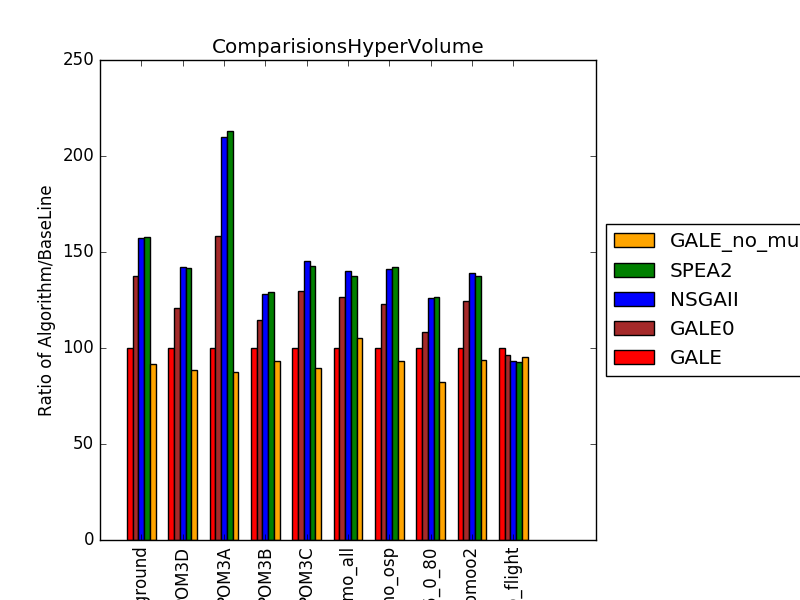
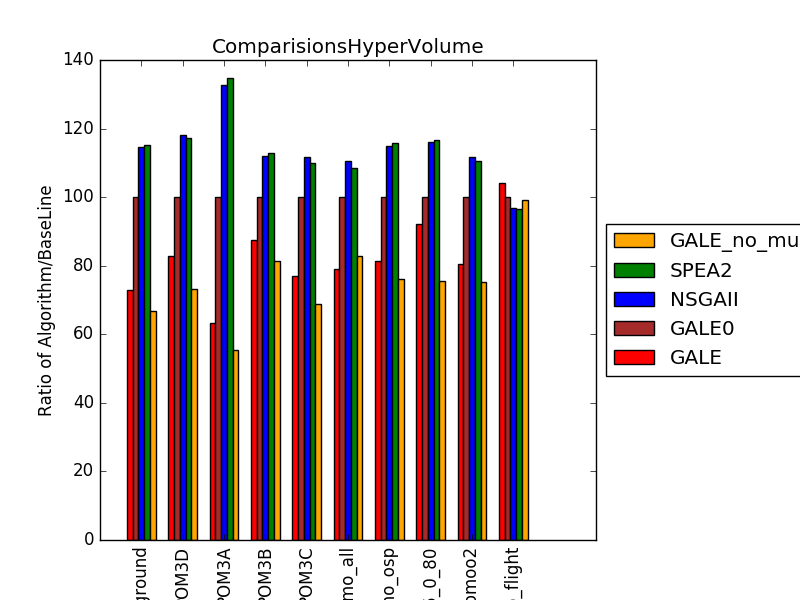
need to add east west

diff --git a/Algorithms/GALE_EAST_WEST/Utilities/SMOTER/smoteR.py b/Algorithms/GALE_EAST_WEST/Utilities/SMOTER/smoteR.py
@@ -1,0 +1,100 @@
+from __future__ import division
+class Candidate():
+    def __init__(self, independent, dependent, class_name=None):
+        self.independent = independent
+        self.dependent = dependent
+        self.class_name = class_name
+
+    def set_class_name(self, name):
+        self.class_name = name
+
+
+def class_names(dependent, min_value, max_value, bins=5):
+    bin_size = (max_value - min_value)/bins
+    return int((dependent - min_value)/bin_size)
+
+
+def euclidean_distance(list1, list2):
+    assert(len(list1) == len(list2)), "The points don't have the same dimension"
+    distance = sum([(i - j) ** 2 for i, j in zip(list1, list2)]) ** 0.5
+    assert(distance >= 0), "Distance can't be less than 0"
+    return distance
+
+
+def apply_over_sampling(candidates, number_of_points):
+    ng = int(len(candidates)/2)
+    new_samples = candidates[:]
+
+    if len(candidates) == 1: return candidates * number_of_points
+
+    for np in xrange(number_of_points):
+        case = candidates[np % len(candidates)]
+        neighbors = sorted(candidates, key=lambda x: euclidean_distance(case.independent, x.independent))[1:1+ng]
+        from random import choice
+        x = choice(neighbors)
+
+        new_indep = [0 for _ in xrange(len(x.independent))]
+
+        # For independent Variables
+        for index in xrange(len(x.independent)):
+            diff = case.independent[index] - x.independent[index]
+            from random import random
+            new_indep[index] = case.independent[index] + random() * diff
+
+        # For dependent Variables
+        # d1 = euclidean_distance(new_indep, case.independent)
+        # d2 = euclidean_distance(new_indep, x.independent)
+        # new_dep = (d2 * case.dependent + d1 * x.dependent) / (d1 + d2)
+
+        from random import random
+        new_dep = case.dependent + random() * (x.dependent - case.dependent)
+
+        new_samples.append(Candidate(new_indep, new_dep, case.class_name))
+
+    return new_samples
+
+
+def apply_smote(list_of_indep, list_of_dep):
+
+    new_samples = []
+
+    assert(len(list_of_dep) == len(list_of_indep)), "Something is wrong"
+    Candidates = [Candidate(indep, dep) for indep, dep in zip(list_of_indep, list_of_dep)]
+
+    # Assigning class names
+    min_value = min(list_of_dep)
+    max_value = max(list_of_dep)
+
+
+    candidate_dict = {}
+    for C in Candidates:
+        class_name = class_names(C.dependent, min_value, max_value)
+        if class_name in candidate_dict.keys(): candidate_dict[class_name].append(C)
+        else: candidate_dict[class_name] = [C]
+        candidate_dict[class_name][-1].set_class_name(class_name)
+
+    # Finding Rare classes and Frequent classes
+    rare_classes = []  # SMOTE
+    frequent_classes = []  # under sampled
+
+    from numpy import median
+    y_median = int(median([len(candidate_dict[key]) for key in candidate_dict.keys()]))
+
+    for key in candidate_dict.keys():
+        if len(candidate_dict[key]) < y_median: rare_classes.append(key)
+        elif len(candidate_dict[key]) > y_median:  frequent_classes.append(key)
+
+    for rare_class in rare_classes:
+        new_samples.extend(apply_over_sampling(candidate_dict[rare_class], y_median))
+
+    for key in list(set(candidate_dict.keys()) - set(rare_classes)):
+        new_samples.extend(candidate_dict[key])
+
+
+    return [x.independent for x in new_samples], [x.dependent for x in new_samples]
+
+
+
+
+
+

diff --git a/Algorithms/GALE_EAST_WEST/gale_components.py b/Algorithms/GALE_EAST_WEST/gale_components.py
@@ -1,0 +1,99 @@
+"""
+    This file is part of GALE,
+    Copyright Joe Krall, 2014.
+
+    GALE is free software: you can redistribute it and/or modify
+    it under the terms of the GNU Lesser General Public License as published by
+    the Free Software Foundation, either version 3 of the License, or
+    (at your option) any later version.
+
+    GALE is distributed in the hope that it will be useful,
+    but WITHOUT ANY WARRANTY; without even the implied warranty of
+    MERCHANTABILITY or FITNESS FOR A PARTICULAR PURPOSE.  See the
+    GNU Lesser General Public License for more details.
+
+    You should have received a copy of the GNU Lesser General Public License
+    along with GALE.  If not, see <http://www.gnu.org/licenses/>.
+"""
+
+from Fastmap.Slurp import *
+from Fastmap.Moo import *
+from jmoo_individual import *
+
+
+from __future__ import division
+import pdb
+
+def WHEREDataTransformation(filename):
+    from Utilities.WHERE.where import where
+    # The Data has to be access using this attribute table._rows.cells
+    import pandas as pd
+    df = pd.read_csv(filename)
+    headers = [h for h in df.columns if '$<' not in h]
+    data = df[headers]
+    clusters = where(data)
+
+    return clusters
+
+def galeEWWHERE(problem, population, configuration, values_to_be_passed):
+    "The Core method behind GALE"
+
+    # for pop in population:
+    #     assert(pop.generation_number == 0), "Generation has to be 0"
+
+    # Compile population into table form used by WHERE
+    t = slurp([[x for x in row.decisionValues] + ["?" for y in problem.objectives] for row in population],
+              problem.buildHeader().split(","))
+
+    # Initialize some parameters for WHERE
+    The.allowDomination = True
+    The.alpha = 1
+    for i, row in enumerate(t.rows):
+        row.evaluated = False
+
+    # Run WHERE
+    m = Moo(problem, t, len(t.rows), N=1).divide(minnie=rstop(t))
+
+    print "Where done"
+    # Organizing
+    NDLeafs = m.nonPrunedLeaves()  # The surviving non-dominated leafs
+    allLeafs = m.nonPrunedLeaves() + m.prunedLeaves()  # All of the leafs
+
+    # After mutation: Check how many rows were actually evaluated
+    numEval = 0
+    for leaf in allLeafs:
+        for row in leaf.table.rows:
+            if row.evaluated:
+                numEval += 1
+
+    # After mutation; Convert back to JMOO Data Structures
+    population = []
+    for leaf in NDLeafs:
+        for row in leaf.table.rows:
+            if row.evaluated:
+                population.append(jmoo_individual(problem, [x for x in row.cells[:len(problem.decisions)]],
+                                                  [x for x in row.cells[len(problem.decisions):]]))
+            else:
+                indi = jmoo_individual(problem, [x for x in row.cells[:len(problem.decisions)]], None)
+                indi.fitness.fitness = problem.evaluate(indi.decisionValues)
+                population.append(indi)
+                numEval += 1
+
+    # median_values = []
+    # for i in xrange(len(problem.objectives)):
+    #     temp_values = []
+    #     for pop in population:
+    #         temp_values.append(pop.fitness.fitness[i])
+    #     median_values.append(median(temp_values))
+    #
+    # print median_values
+
+    return population, numEval
+
+
+def gale0Mutate(problem, NDLeafs, configuration):
+    return NDLeafs, 0
+
+
+def gale0Regen(problem, unusedslot, mutants, configuration):
+    return unusedslot, 0

diff --git a/Algorithms/GALE_EAST_WEST/Utilities/WHERE/where.py b/Algorithms/GALE_EAST_WEST/Utilities/WHERE/where.py
@@ -1,0 +1,68 @@
+from __future__ import division, print_function
+from pdb import set_trace
+import pandas as pd
+import numpy as np
+from os import walk
+from random import randint as randi, seed as rseed
+__author__ = 'rkrsn'
+
+def where(data):
+  """
+  Recursive FASTMAP clustering.
+  """
+  rseed(0)
+  if isinstance(data, pd.core.frame.DataFrame):
+    data = data.as_matrix()
+  if not isinstance(data, np.ndarray):
+    raise TypeError('Incorrect data format. Must be a pandas Data Frame, or a numpy nd-array.')
+
+  N = np.shape(data)[0]
+  clusters = []
+  norm = np.max(data, axis=0)[:-1] -np.min(data, axis=0)[:-1]
+
+  def aDist(one, two):
+    return np.sqrt(np.sum((np.array(one[:-1])/norm-np.array(two[:-1])/norm)**2))
+
+  def farthest(one,rest):
+    return sorted(rest, key=lambda F: aDist(F,one))[-1]
+
+  def recurse(dataset):
+    R, C = np.shape(dataset) # No. of Rows and Col
+    # Find the two most distance points.
+    one=dataset[randi(0,R-1)]
+    mid=farthest(one, dataset)
+    two=farthest(mid, dataset)
+
+    # Project each case on
+    def proj(test):
+      a = aDist(one, test)
+      b = aDist(two, test)
+      c = aDist(one, two)
+      return (a**2-b**2+c**2)/(2*c)
+
+    if R < np.sqrt(N):
+      clusters.append(dataset)
+    else:
+      _ = recurse(sorted(dataset,key=lambda F:proj(F))[:int(R/2)])
+      _ = recurse(sorted(dataset,key=lambda F:proj(F))[int(R/2):])
+
+  recurse(data)
+  return clusters
+
+def _test(dir='/Users/viveknair/GIT/CodeLab/SurrogateBuilder/Data/GALE4_DTLZ1_9_5/0/'):
+  files=[]
+  for (dirpath, _, filename) in walk(dir):
+    for f in filename:
+
+      df=pd.read_csv(dirpath+f)
+      headers = [h for h in df.columns if '$<' not in h]
+      files.append(df[headers])
+
+  "For N files in a project, use 1 to N-1 as train."
+  train = pd.concat(files[:-1])
+  clusters = where(train)
+  # ----- ::DEBUG:: -----
+  set_trace()
+
+if __name__=='__main__':
+  _test()

diff --git a/jmoo_core.py b/jmoo_core.py
@@ -119,12 +119,12 @@ class jmoo_chart_report:
         self.Configurations = Configurations
 
     def doit(self, tagnote=""):
-        # generate_final_frontier_for_gale4(self.tests.problems, self.tests.algorithms, self.Configurations, tag=tagnote)
-        # hv_spread =[]
-        # for problem in self.tests.problems:
-        #     hv_spread.append(charter_reporter([problem], self.tests.algorithms, self.Configurations, tag=tagnote))
-        statistic_reporter(self.tests.problems, self.tests.algorithms, self.Configurations, tag=tagnote)
-        # comparision_reporter(self.tests.problems, self.tests.algorithms, [hvp[0] for hvp in hv_spread], [hvp[1] for hvp in hv_spread], [hvp[2] for hvp in hv_spread], "GALE")
+        generate_final_frontier_for_gale4(self.tests.problems, self.tests.algorithms, self.Configurations, tag=tagnote)
+        hv_spread =[]
+        for problem in self.tests.problems:
+            hv_spread.append(charter_reporter([problem], self.tests.algorithms, self.Configurations, tag=tagnote))
+        # statistic_reporter(self.tests.problems, self.tests.algorithms, self.Configurations, tag=tagnote)
+        comparision_reporter(self.tests.problems, self.tests.algorithms, [hvp[0] for hvp in hv_spread], [hvp[1] for hvp in hv_spread], [hvp[2] for hvp in hv_spread], "GALE0")
         # for problem in self.tests.problems:
         #     hv_spread.append(charter_reporter([problem], self.tests.algorithms, self.Configurations, tag=tagnote))
         # generate_summary(self.tests.problems, self.tests.algorithms, "GALE", self.Configurations)

diff --git a/Algorithms/GALE_EAST_WEST/Utilities/to_generate_data.py b/Algorithms/GALE_EAST_WEST/Utilities/to_generate_data.py
@@ -1,0 +1,18 @@
+def generate_data(problem, number_of_points):
+    dataset = []
+    while len(dataset) < number_of_points:
+        print "# ", len(dataset),
+        import sys
+        sys.stdout.flush()
+        temp_dataset = []
+        for run in xrange(number_of_points):
+            temp_dataset.append(problem.generateInput())
+
+        import itertools
+        dataset.sort()
+        dataset.extend(list(temp_dataset for temp_dataset,_ in itertools.groupby(temp_dataset)))
+
+    from random import shuffle
+    shuffle(dataset)
+    return dataset[:number_of_points]
+

diff --git a/Graphics/charter.py b/Graphics/charter.py
@@ -404,6 +404,8 @@ def comparision_reporter(problems, algorithms, list_hypervolume_scores, list_spr
         for problem in problems:
             base_score = float(x_scores[problem.name][base_line])
             for algorithm in algorithms:
+                print measure_name, problem.name, algorithm.name, x_scores[problem.name][algorithm.name]/base_score
+
                 temp_score = (x_scores[problem.name][algorithm.name]/base_score) * 100
                 x_dpoints.append([algorithm.name, problem.name, temp_score])
 

diff --git a/Algorithms/GALE_EAST_WEST/Utilities/SMOTER/__init__.py b/Algorithms/GALE_EAST_WEST/Utilities/SMOTER/__init__.py
@@ -1,0 +1,1 @@
+__author__ = 'viveknair'

diff --git a/Algorithms/GALE_EAST_WEST/Utilities/WHERE/__init__.py b/Algorithms/GALE_EAST_WEST/Utilities/WHERE/__init__.py
@@ -1,0 +1,1 @@
+__author__ = 'viveknair'

diff --git a/Algorithms/GALE_EAST_WEST/Utilities/__init__.py b/Algorithms/GALE_EAST_WEST/Utilities/__init__.py
@@ -1,0 +1,1 @@
+__author__ = 'viveknair'
